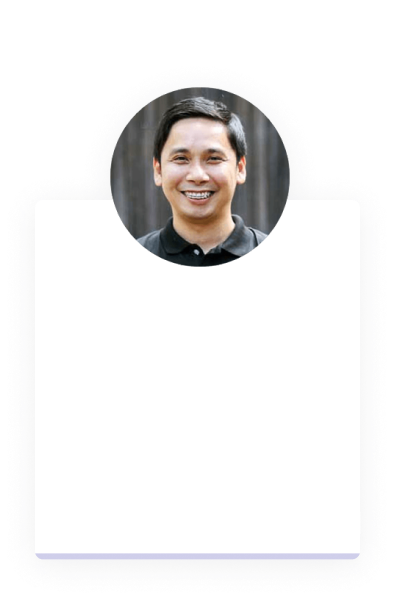
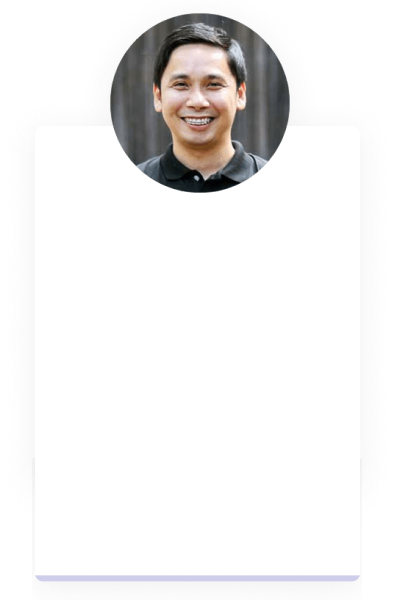
Fix text overlaps #24

Changed region(s): [[0.2734, 0.0, 0.7595, 0.45], [0.0911, 0.9, 0.9114, 0.99]]

diff --git a/src/app/team/Team.tsx b/src/app/team/Team.tsx
@@ -15,12 +15,12 @@ const Team = () => {
 
                 <div className="container py-0 px-0 2xl:px-32">
                     <div className="flex flex-wrap justify-center mt-4">
-                      <div className="m-0 md:w-2/5 2xl:w-96 lg:w-96 w-full flex-shrink-0 flex justify-center items-center relative">
+                      <div className="m-0 md:w-2/5 lg:w-80 w-full flex-shrink-0 flex justify-center items-center relative">
                         <Image className="object-cover rounded-xl" src="/team/andy.png" width="400" height="450" alt="Truc cool 1" />
-                        <div className="absolute bottom-0 lg:p-11 md:p-5 p-12 md:pb-4 text-gray-600">
-                          <h1 className="pb-1 text-center lg:text-xl md:text-lg text-xl font-bold text-gray-700" >Andy Agnas</h1>
-                          <h2 className="pb-2 text-center lg:text-lg md:text-sm text-lg font-medium text-gray-600" >Founding Partner & CEO</h2>
-                          <p className="mb-3 mx-5 text-center lg:text-sm md:text-xs text-xs font-medium">Andy is a Certified Public Accountant (CPA) by profession 
+                        <div className="absolute bottom-0 lg:p-6 md:p-5 p-16 text-gray-600">
+                          <h1 className="pb-0 text-center lg:text-xl md:text-lg text-xl font-bold text-gray-700" >Andy Agnas</h1>
+                          <h2 className="pb-1 text-center lg:text-lg md:text-sm text-lg font-medium text-gray-600" >Founding Partner & CEO</h2>
+                          <p className="sm:mb-2 mb-0 mx-6 text-center leading-none lg:text-sm md:text-xs text-based font-medium">Andy is a Certified Public Accountant (CPA) by profession 
                           and has been a serial tech entrepreneur since 2017. He is the Founder of SparkPoint Technologies Inc., 
                           serves as Chief Executive Officer of MetaGaming Guild Ltd. and Astra Interactive Studios Inc. 
                           Andy is also a blockchain enthusiast, speaker, mentor, and angel investor in several startup WEB3 projects.</p>
@@ -28,24 +28,24 @@ const Team = () => {
                         </div>
                       </div>
                       
-                      <div className="2xl:w-96 m-0 w-full md:w-2/5 w flex-shrink-0  flex justify-center items-center  relative">
+                      <div className="lg:w-80 m-0 w-full md:w-2/5 w flex-shrink-0  flex justify-center items-center  relative">
                         <Image className="object-cover rounded-xl" src="/team/rico.png" width="400" height="450" alt="Truc cool 2" />
-                        <div className="absolute bottom-0 lg:p-14 md:p-1 p-14 text-gray-600">
-                          <h1 className="pb-1 text-center md:text-xl text-xl font-bold text-gray-700" >Rico Zuñiga</h1>
-                          <h2 className="pb-2 text-center md:text-lg text-lg font-medium text-gray-600" >Venture Associate</h2>
-                          <p className="sm:mb-14 mb-12 mx-2 text-center md:text-sm text-xs font-medium">Rico is a serial tech entrepreneur and early advisor 
+                        <div className="absolute bottom-0 lg:p-12 md:p-12 p-20 text-gray-600">
+                          <h1 className="pb-0 text-center md:text-xl text-2xl font-bold text-gray-700" >Rico Zuñiga</h1>
+                          <h2 className="sm:pb-1 pb-2 text-center md:text-lg text-xl font-medium text-gray-600" >Venture Associate</h2>
+                          <p className="sm:mb-10 mb-0 mx-2 text-center md:text-sm leading-none text-based font-medium">Rico is a serial tech entrepreneur and early advisor 
                           of SparkPoint. He currently serves as SparkPoint Technologies Inc.'s Chief Technology Officer. Rico has 
                           been in the tech industry for more than 16 years and is one of the pioneers in the Philippine tech startup industry.</p>
                           
                         </div>
                       </div>
                       
-                      <div className="m-0 w-full md:w-1/2 2xl:w-96 lg:w-96 sm:w-96 flex-shrink-0 flex justify-center items-center relative">
+                      <div className="m-0 w-full md:w-1/2 lg:w-80 sm:w-96 flex-shrink-0 flex justify-center items-center relative">
                         <Image className="object-cover rounded-xl" src="/team/karan.png" width="400" height="350" alt="Truc cool 3" />
-                        <div className="absolute bottom-0 md:p-16 p-16 text-gray-600">
-                          <h1 className="pb-1 text-center md:text-xl text-xl  font-bold text-gray-700" >Karan Sharma</h1>
-                          <h2 className="pb-2 text-center md:text-slg text-lg font-medium text-gray-600" >Venture Analyst</h2>
-                          <p className="sm:mb-18 mb-16 text-center md:text-sm text-xs font-medium">Karan is an experienced advisor and investor in the 
+                        <div className="absolute bottom-0 md:p-14 p-24 text-gray-600">
+                          <h1 className="pb-0 text-center md:text-xl text-2xl  font-bold text-gray-700" >Karan Sharma</h1>
+                          <h2 className="sm:pb-1 pb-2 text-center md:text-lg text-xl font-medium text-gray-600" >Venture Analyst</h2>
+                          <p className="sm:mb-14 mb-0 text-center md:text-sm text-based leading-none font-medium">Karan is an experienced advisor and investor in the 
                           blockchain industry since 2017. An engineer by profession, he has been instrumental in the success of 
                           several startup through successful partnerships and marketing campaigns.</p>
                           
